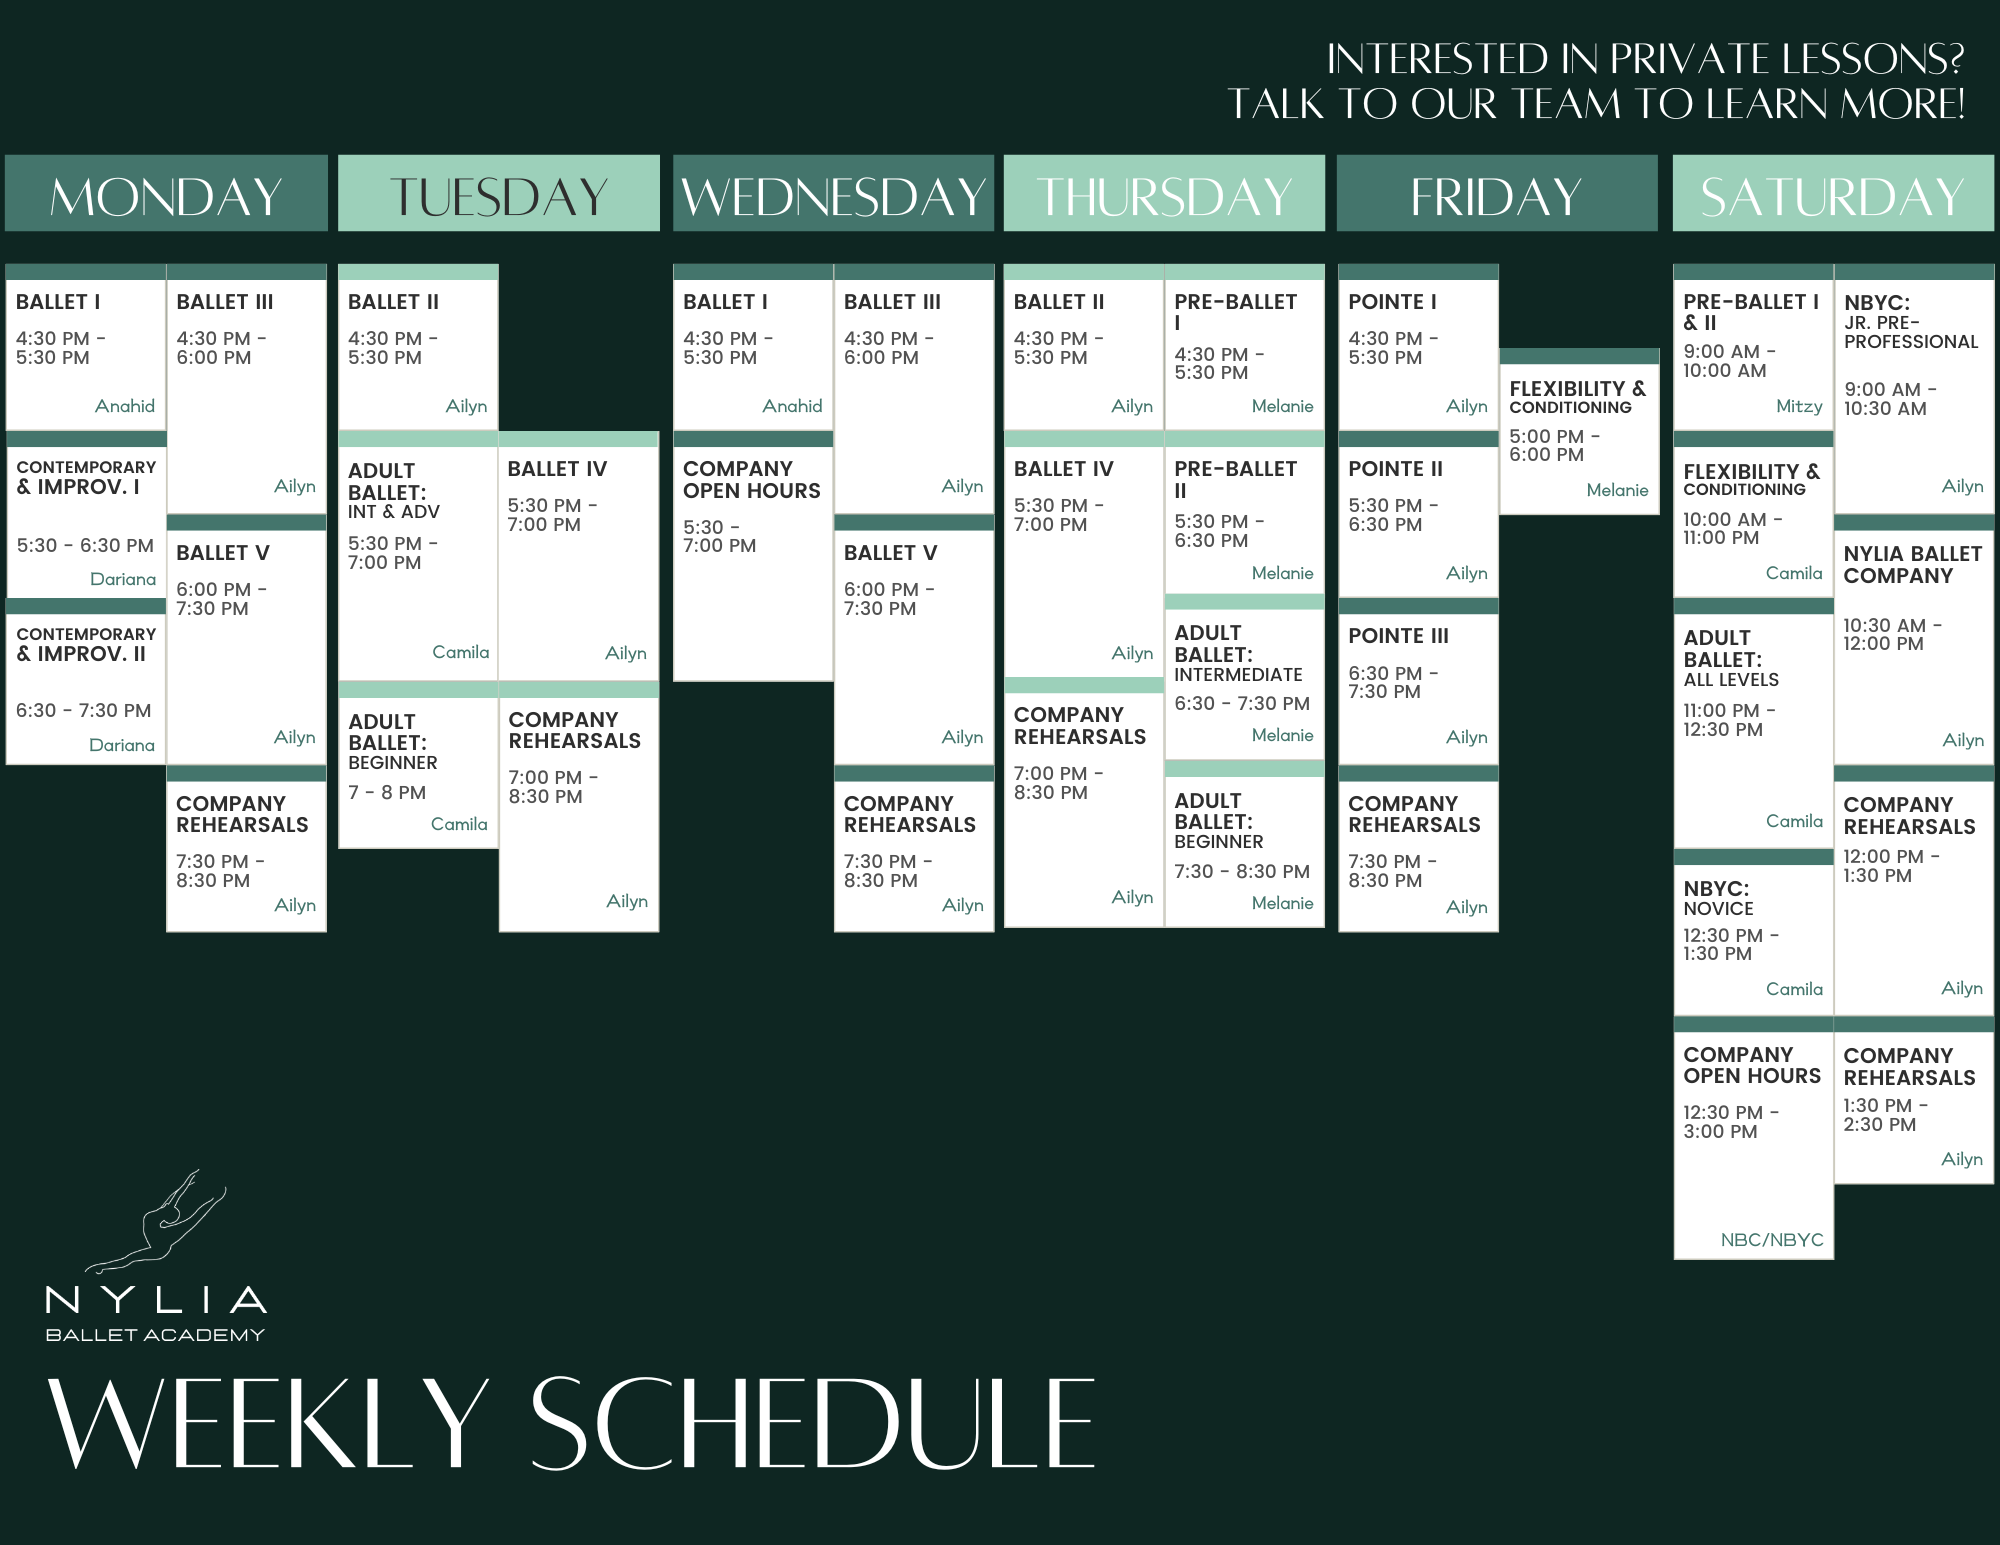
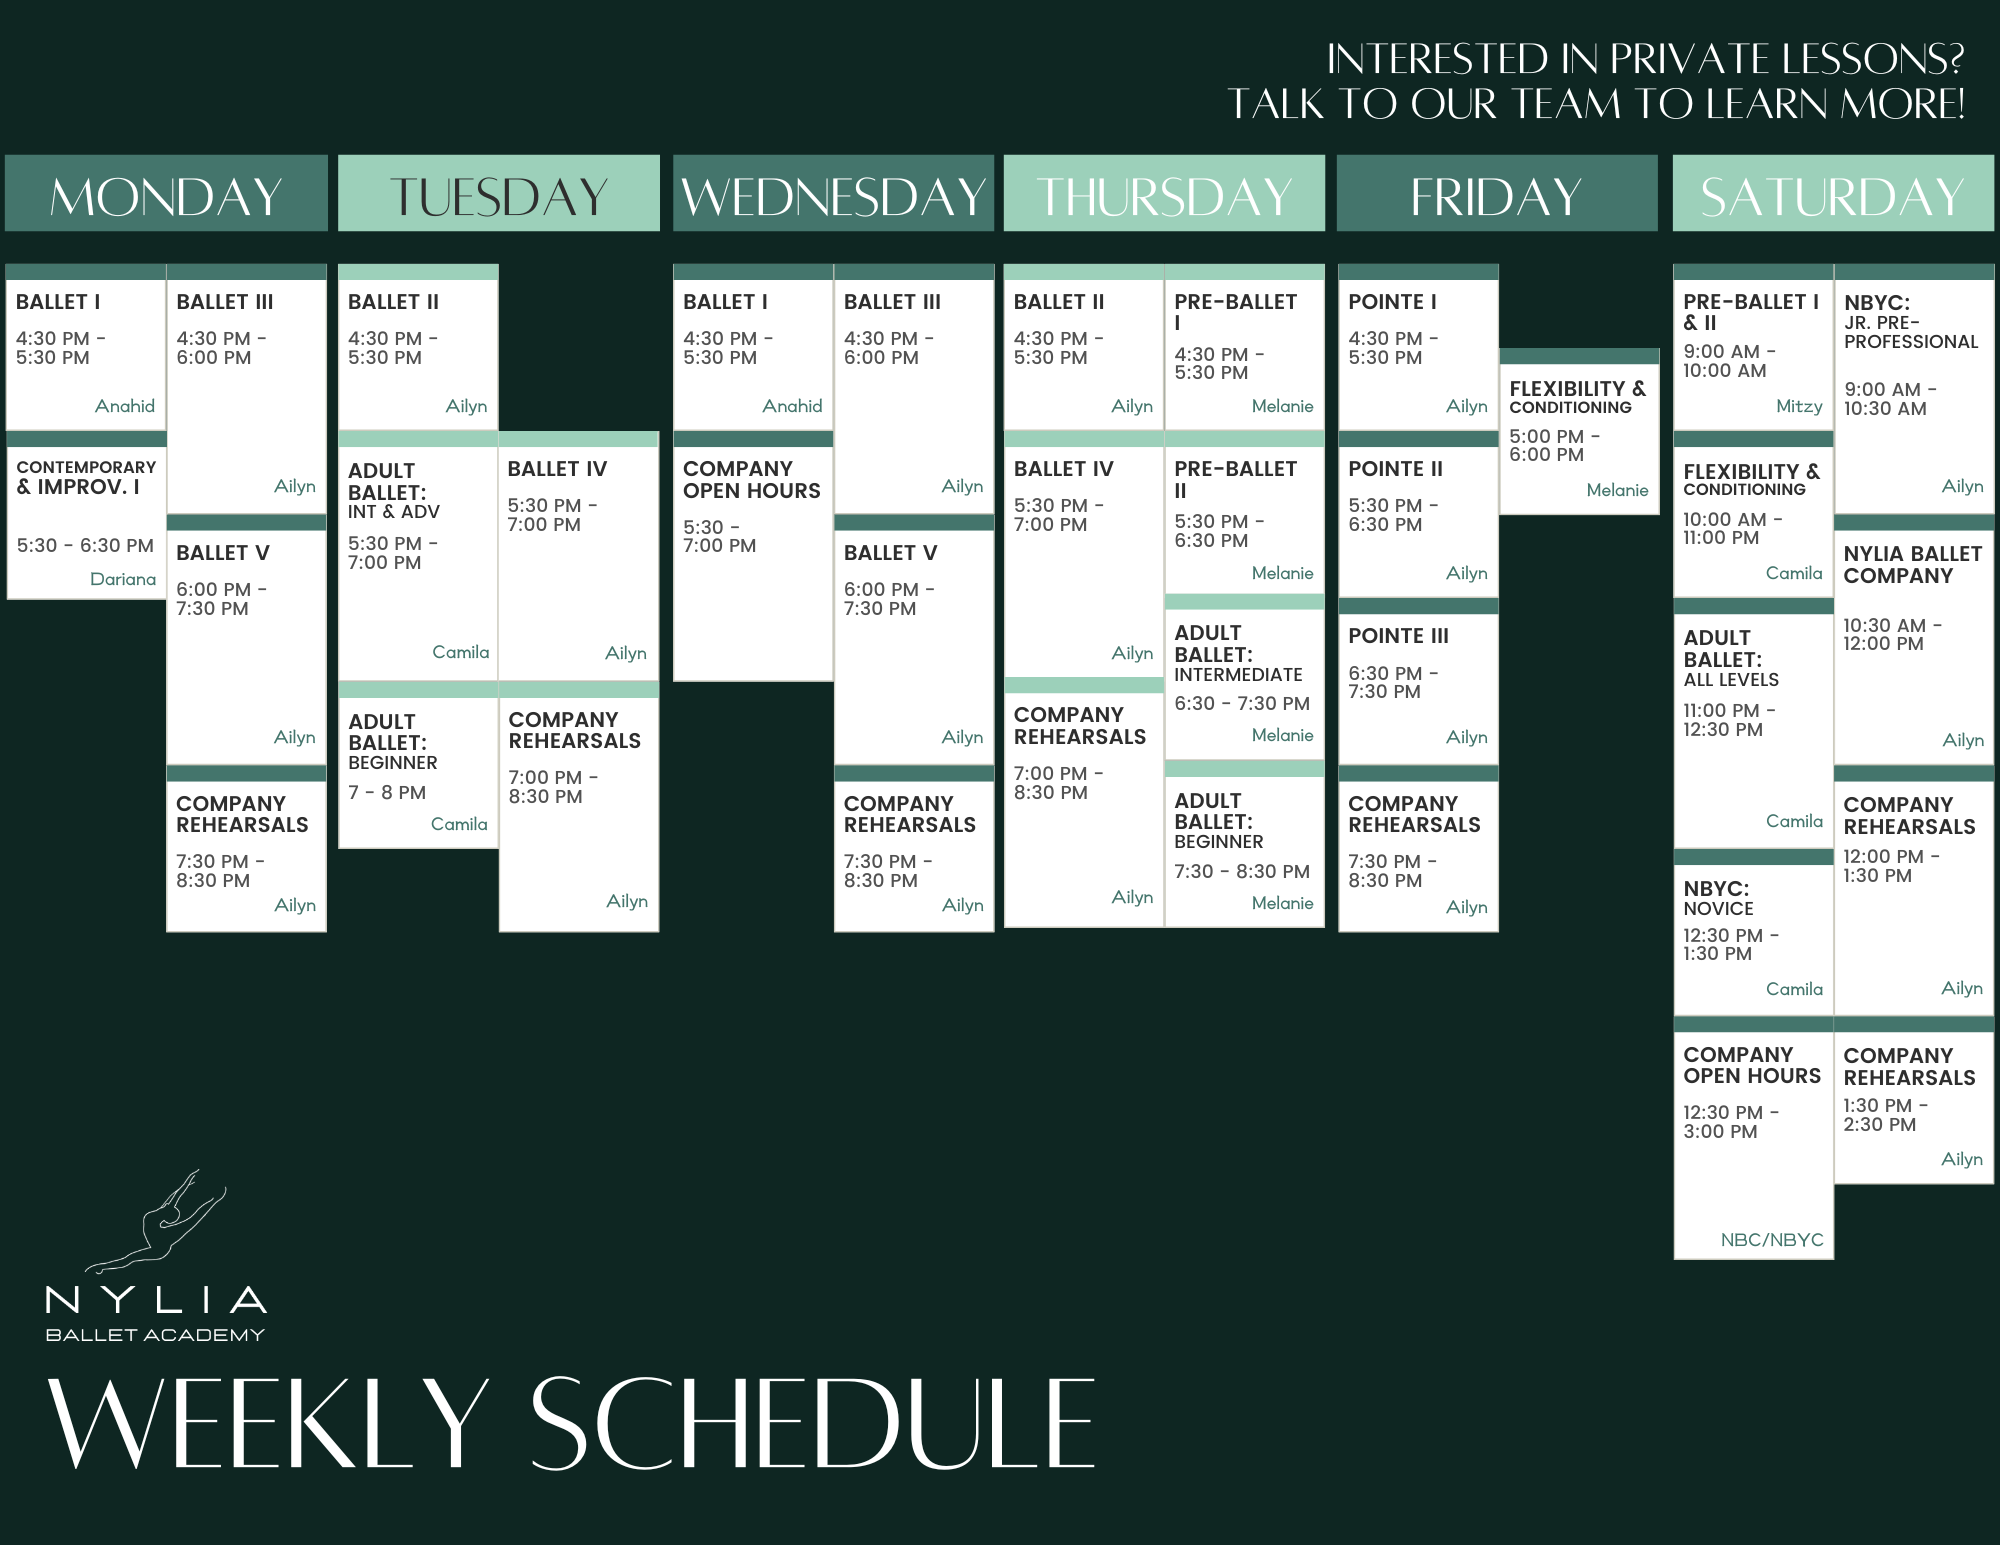
Update schedule

Changed region(s): [[0.0, 0.3728, 0.093, 0.4971]]

diff --git a/src/components/Classes.js b/src/components/Classes.js
@@ -407,22 +407,22 @@ function Classes() {
       classRgstr: rgstrRqd,
     },
 
-    contemporary2: {
-      classTitle: "CONTEMPORARY II",
-      classAges: "AGES 14+",
-      classImg: contemporary2Sm,
-      imgSet: `${contemporary2Sm} 300w, ${contemporary2Md} 768w, ${contemporary2Lg} 1280w, ${contemporary2XL} 2000w`,
-      webpSet: `${contemporary2Sm} 300w, ${contemporary2Md} 768w, ${contemporary2Lg} 1280w, ${contemporary2XL} 2000w`,
-      classSched1: "MONDAY",
-      classSched2: "6:30 PM - 7:30 PM",
-      classSched3: "",
-      classSched4: "",
-      classSched5: "",
-      classSched6: "",
-      classDesc:
-        "This class offers dancers the opportunity to dive deeper into the artistry of contemporary dance through technique, choreography, and collaborative dance with peers in the class. The power of conversation through dance will be introduced. Students will explore a wide range of movement influences, from ballet to modern, floor work to release technique, and will regularly engage in improvisational tasks designed to unlock personal movement style and deepen emotional expression. Emphasis is placed on using the body as a vessel for storytelling and developing an intuitive sense of musicality and dynamics. Beyond technique, dancers will cultivate resilience, creative risk-taking, and self-awareness, skills that enrich not only their dance practice, but their lives beyond the studio.",
-      classRgstr: rgstrRqd,
-    },
+    // contemporary2: {
+    //   classTitle: "CONTEMPORARY II",
+    //   classAges: "AGES 14+",
+    //   classImg: contemporary2Sm,
+    //   imgSet: `${contemporary2Sm} 300w, ${contemporary2Md} 768w, ${contemporary2Lg} 1280w, ${contemporary2XL} 2000w`,
+    //   webpSet: `${contemporary2Sm} 300w, ${contemporary2Md} 768w, ${contemporary2Lg} 1280w, ${contemporary2XL} 2000w`,
+    //   classSched1: "MONDAY",
+    //   classSched2: "6:30 PM - 7:30 PM",
+    //   classSched3: "",
+    //   classSched4: "",
+    //   classSched5: "",
+    //   classSched6: "",
+    //   classDesc:
+    //     "This class offers dancers the opportunity to dive deeper into the artistry of contemporary dance through technique, choreography, and collaborative dance with peers in the class. The power of conversation through dance will be introduced. Students will explore a wide range of movement influences, from ballet to modern, floor work to release technique, and will regularly engage in improvisational tasks designed to unlock personal movement style and deepen emotional expression. Emphasis is placed on using the body as a vessel for storytelling and developing an intuitive sense of musicality and dynamics. Beyond technique, dancers will cultivate resilience, creative risk-taking, and self-awareness, skills that enrich not only their dance practice, but their lives beyond the studio.",
+    //   classRgstr: rgstrRqd,
+    // },
     // strength: {
     //   classTitle: "STRENGTH FOR DANCERS",
     //   classAges: "- All Ages -",
@@ -582,12 +582,6 @@ function Classes() {
                 onClick={() => setClassInfo("contemporary1")}
               >
                 Contemporary and Improv. I
-              </Dropdown.Item>
-              <Dropdown.Item
-                as="button"
-                onClick={() => setClassInfo("contemporary2")}
-              >
-                Contemporary and Improv. II
               </Dropdown.Item>
             </DropdownButton>
           </div>
@@ -771,13 +765,6 @@ function Classes() {
                   onClick={() => setClassInfo("contemporary1")}
                 >
                   Contemporary & Improv I
-                </Dropdown.Item>
-                <Dropdown.Item
-                  eventKey="2"
-                  as="button"
-                  onClick={() => setClassInfo("contemporary2")}
-                >
-                  Contemporary & Improv II
                 </Dropdown.Item>
               </DropdownButton>
             </ButtonGroup>
